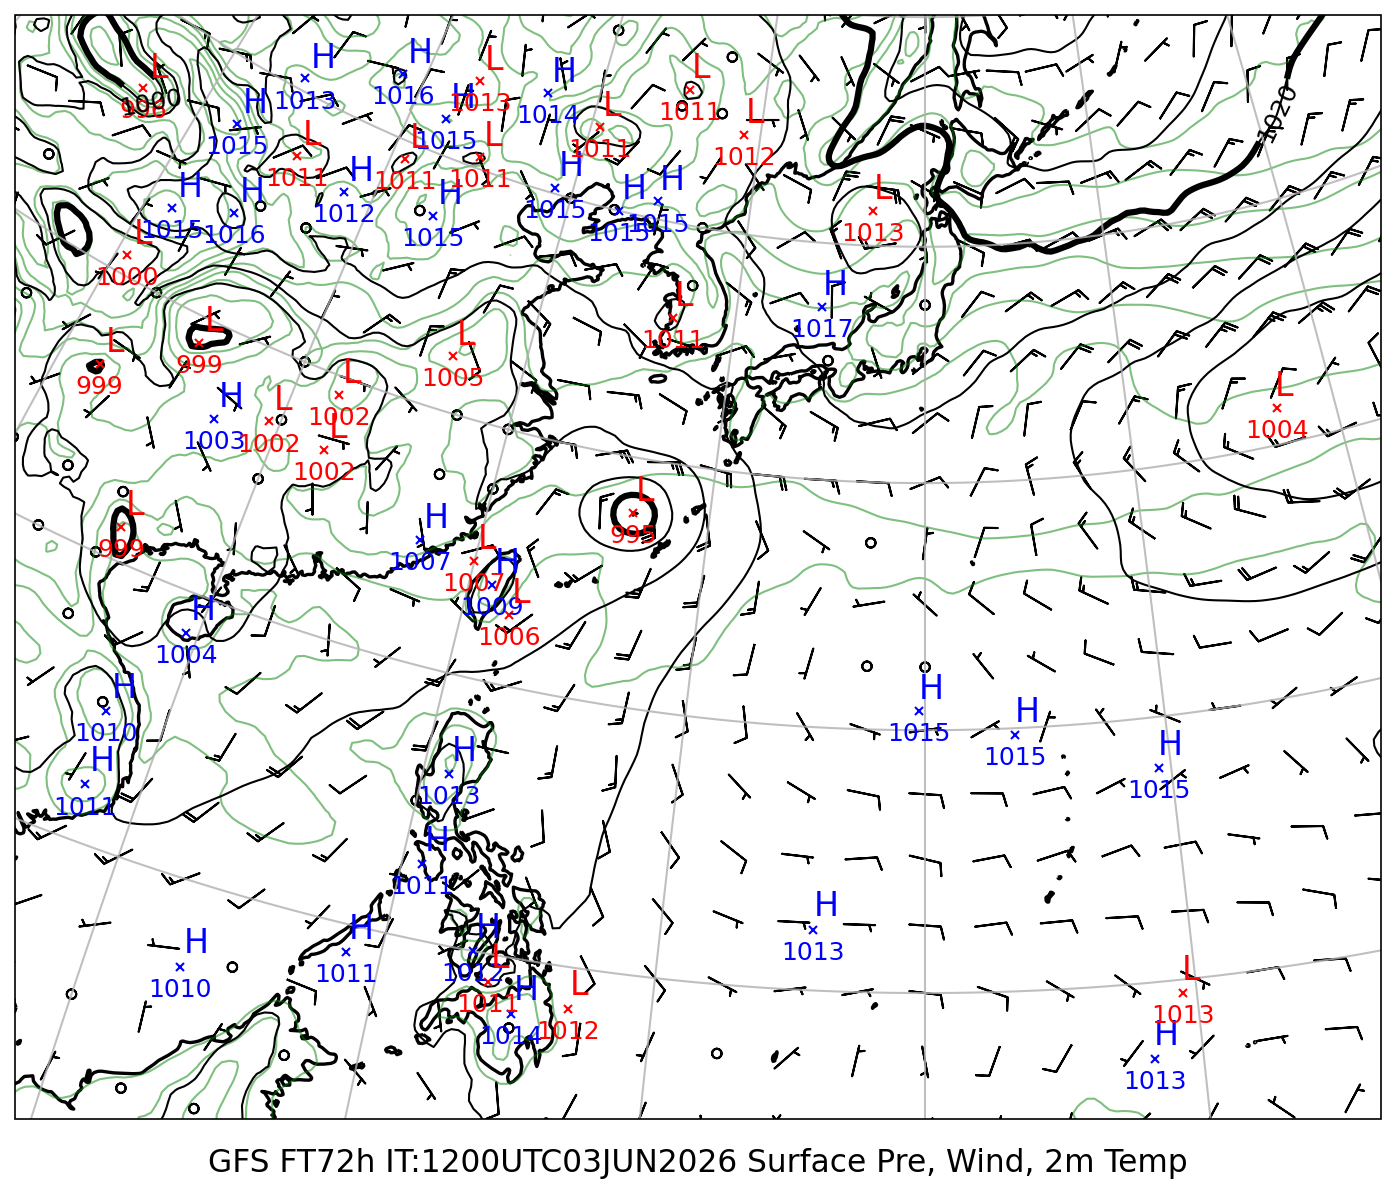
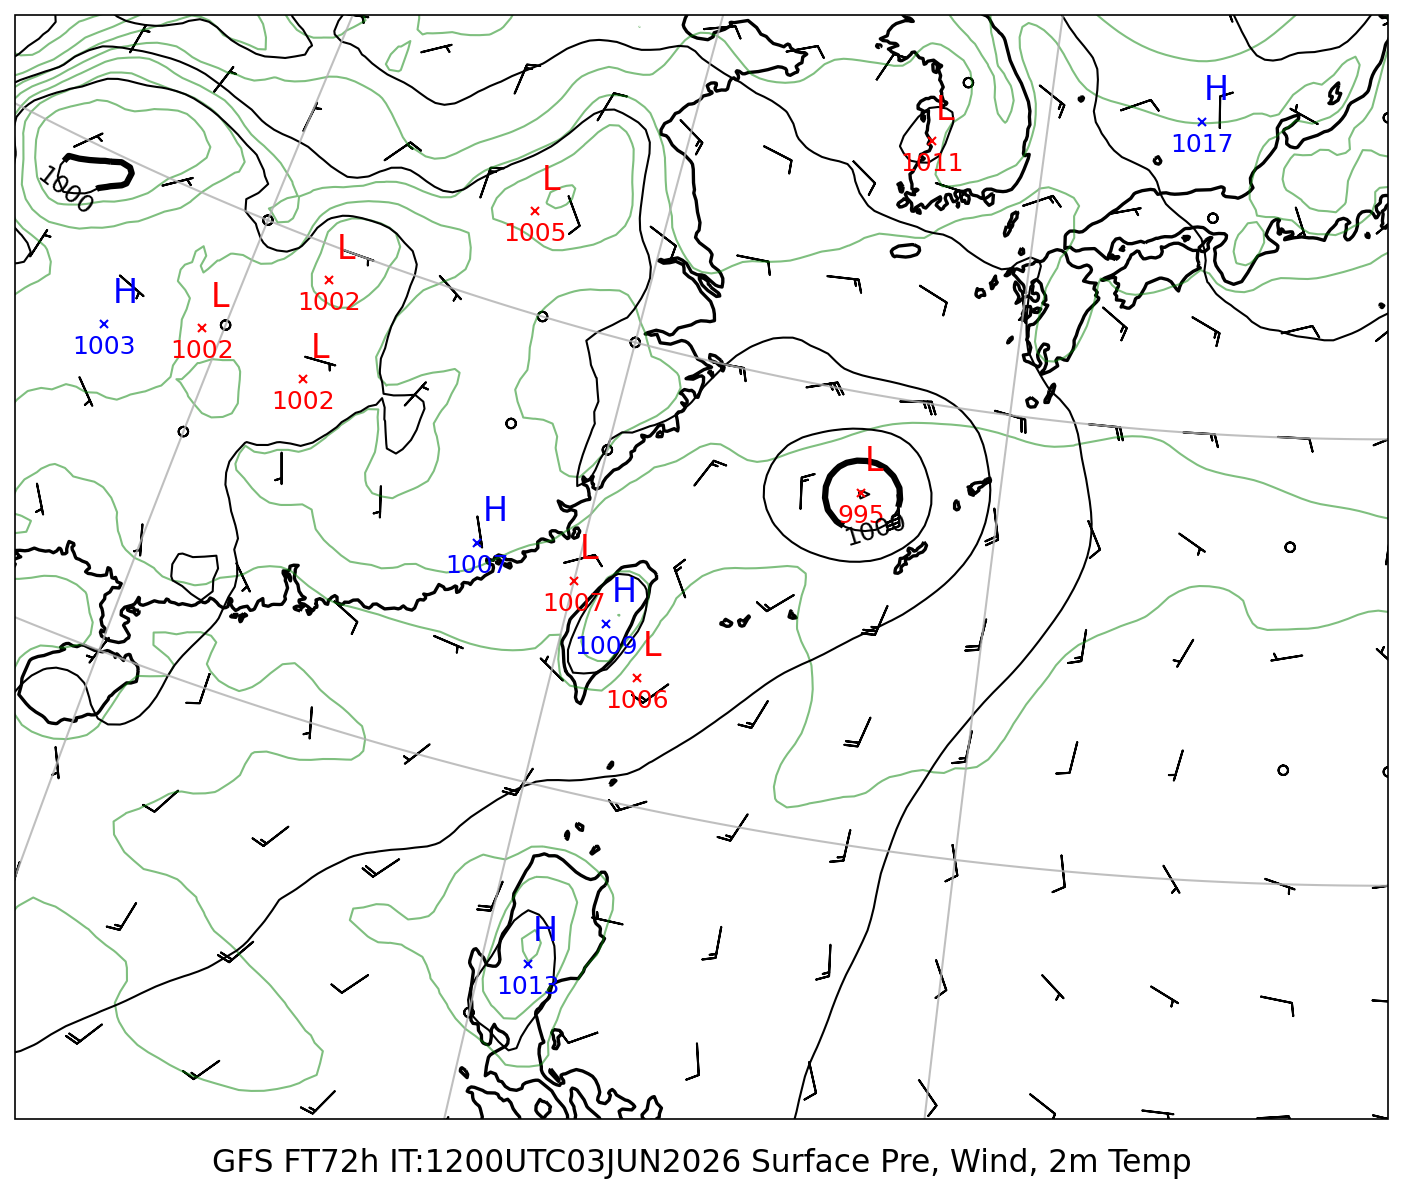
report: 地上気圧比較レポート GSM+ECM+GFS FT48-84_12h (2026060312)

diff --git a/reports/2026060312/srf_comparison_FT48-84_12h.md b/reports/2026060312/srf_comparison_FT48-84_12h.md
@@ -1,7 +1,7 @@
 # 地上気圧 マルチモデル比較レポート
 
 **初期時刻**: 2026/06/03 12UTC
-**描画範囲**: LON 108〜156°E  LAT 5〜45°N
+**描画範囲**: LON 110.0〜140.0°E  LAT 15.0〜35.0°N
 
 ---
 
